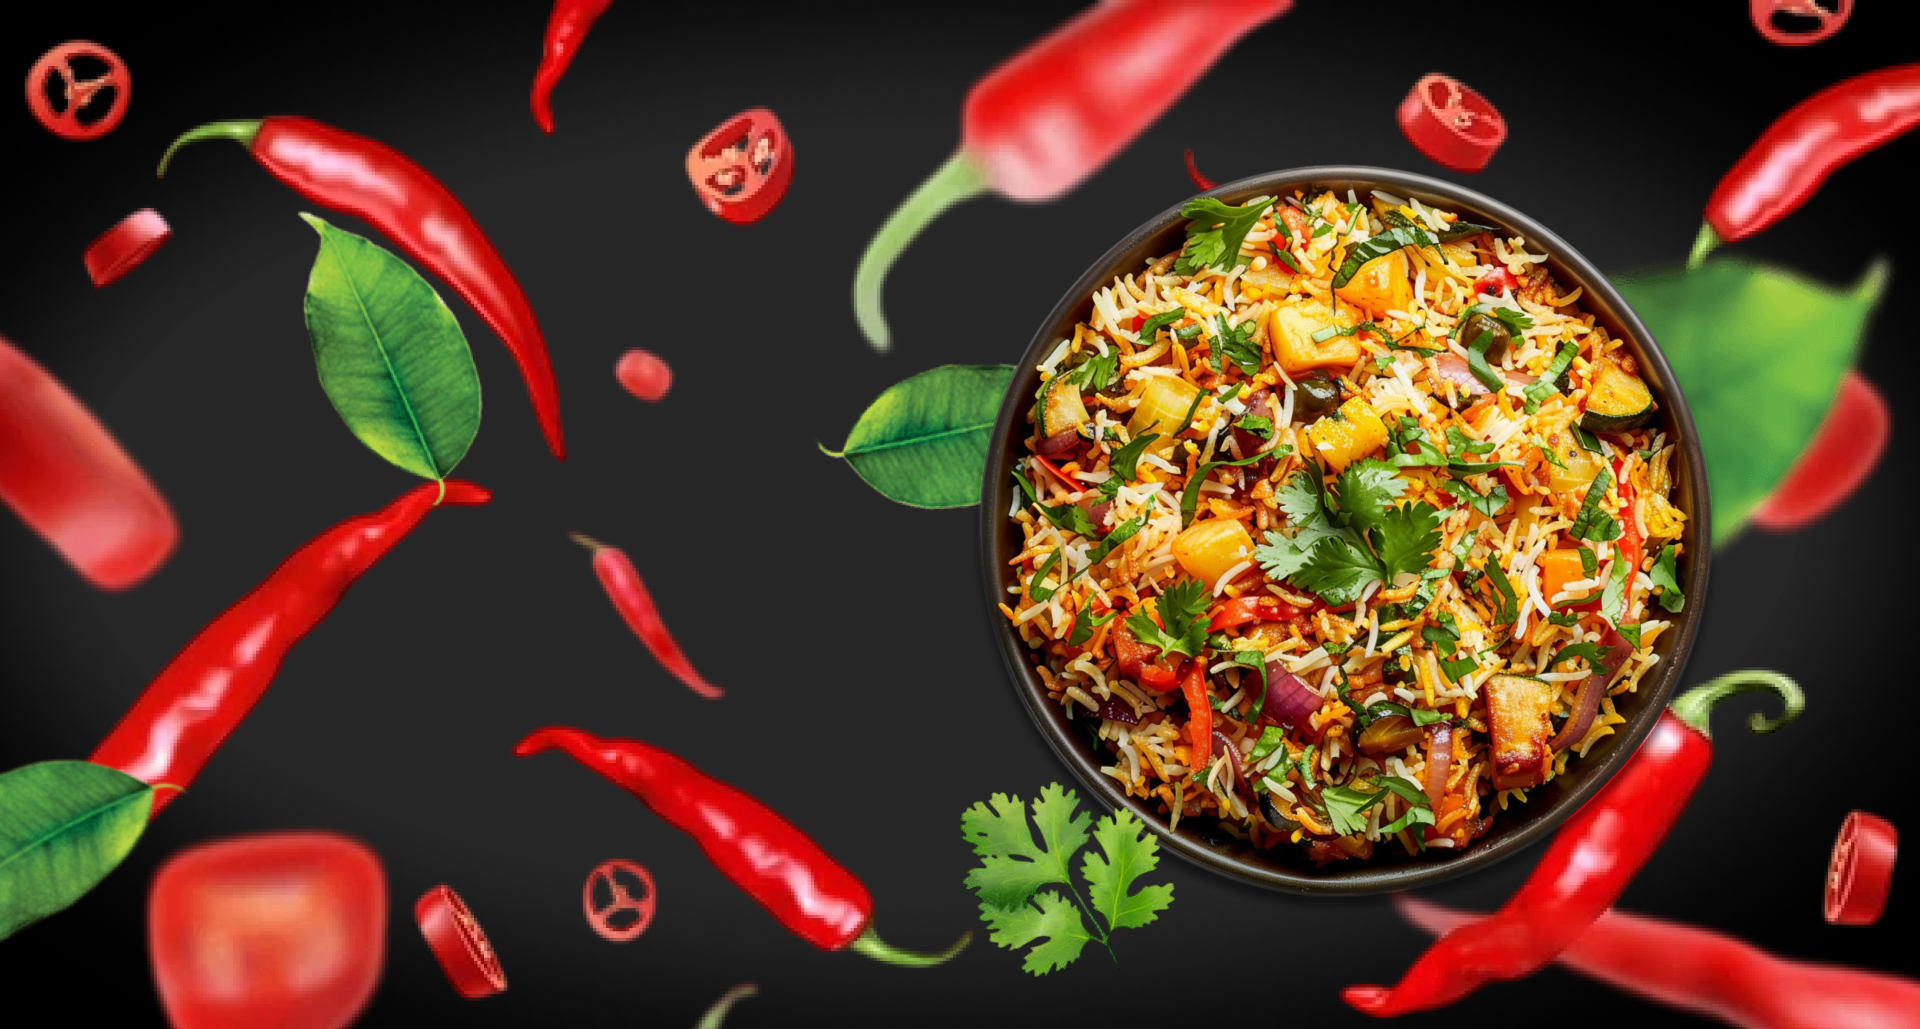
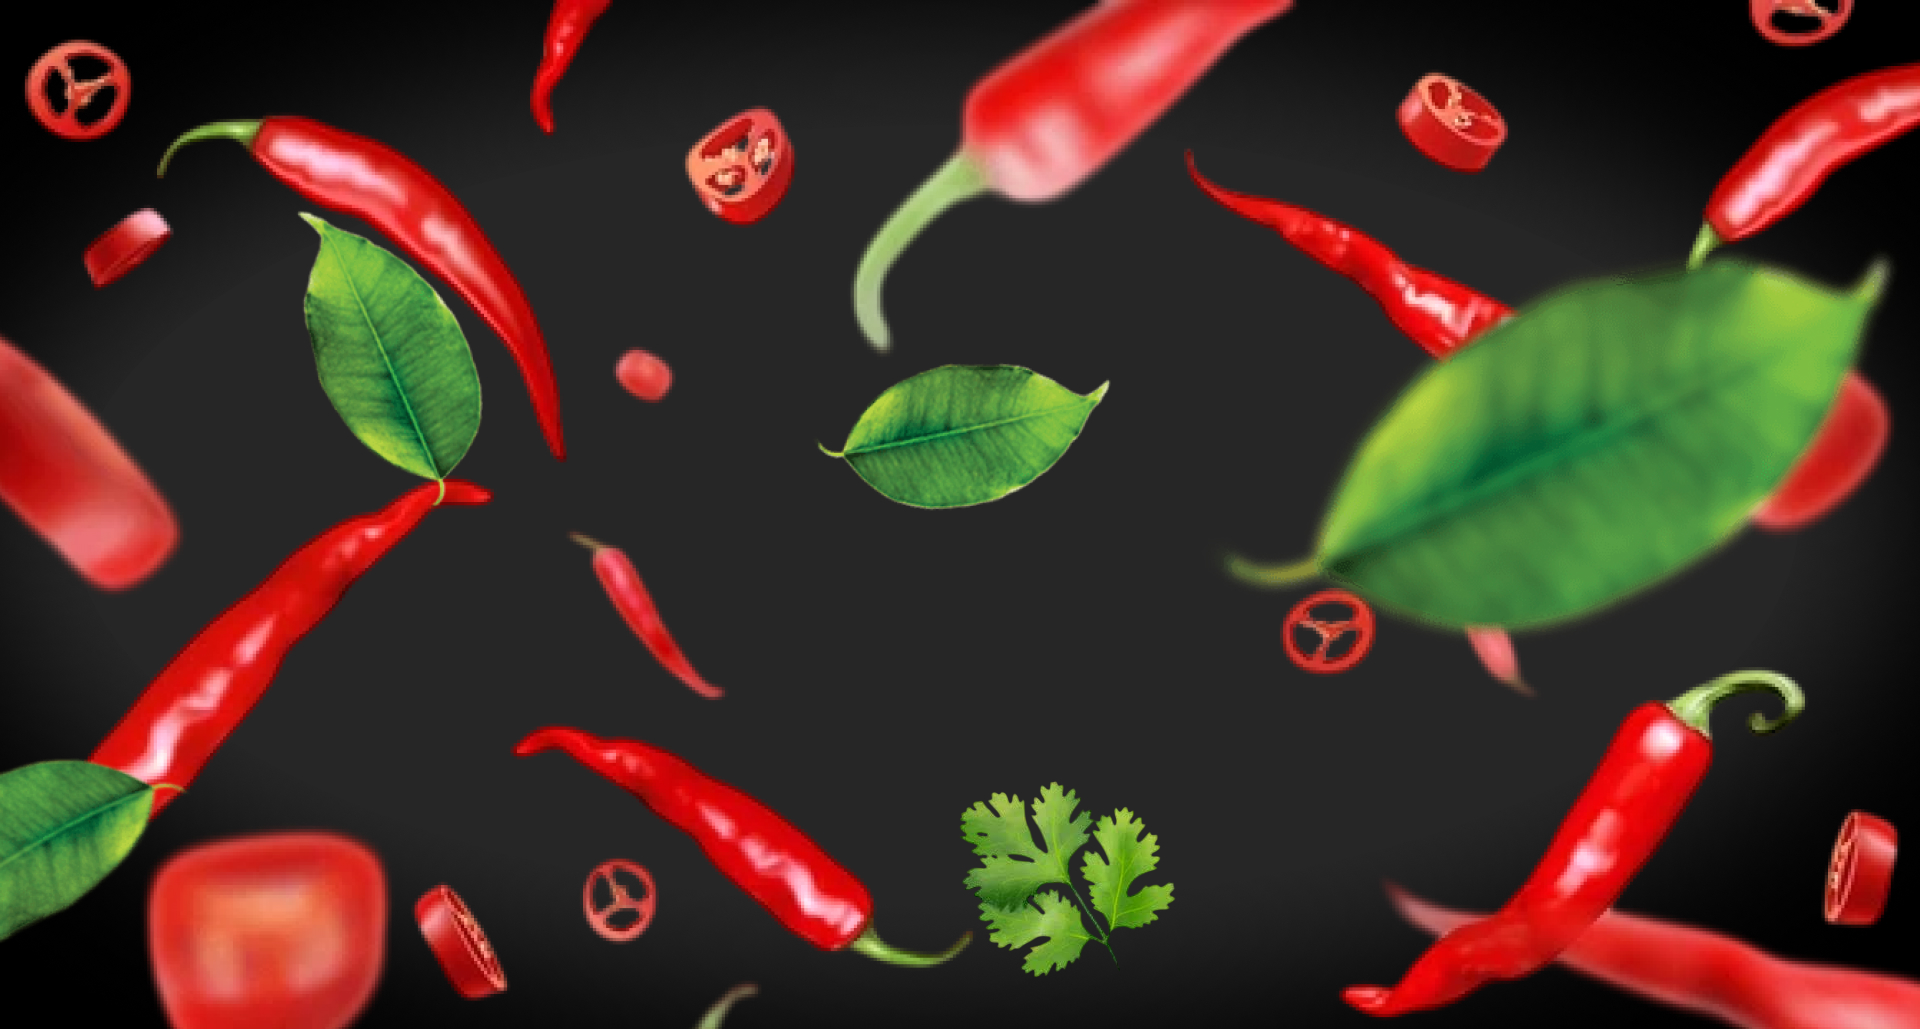
added animation in homepage

Changed region(s): [[0.5, 0.1555, 0.9062, 0.8707]]

diff --git a/src/components/Menu.jsx b/src/components/Menu.jsx
@@ -1,6 +1,8 @@
 import { useState } from "react";
 import { useCart } from "../context/CartContext";
 import menuBg from "../assets/images/menuBg.jpg";
+import card1 from "../assets/images/card1.png";
+import card2 from "../assets/images/card2.png";
 
 
 import item1 from "../assets/images/item (11).jpg";
@@ -262,6 +264,8 @@ const foods = [
 const Menu = () => {
   const { addToCart } = useCart();
   const [filter, setFilter] = useState("all");
+  const [showMenuCard, setShowMenuCard] = useState(false);
+
 
   const filteredFoods =
     filter === "all"
@@ -270,7 +274,7 @@ const Menu = () => {
 
   return (
     <section id="menu" className="relative py-24 overflow-hidden">
-      
+
       {/* ✅ BACKGROUND IMAGE (LAZY) */}
       <img
         src={menuBg}
@@ -297,29 +301,109 @@ const Menu = () => {
       </div>
 
       {/* FILTER BUTTONS */}
+      {/* FILTER BUTTONS */}
       <div className="flex justify-center gap-4 mb-14 flex-wrap px-4">
         {["all", "tea", "veg", "nonveg"].map(type => (
           <button
             key={type}
             onClick={() => setFilter(type)}
-            className={`px-6 py-2 rounded-full font-semibold transition ${
-              filter === type
-                ? "bg-orange-600 text-white"
-                : "bg-white/90 text-black hover:bg-orange-100"
-            }`}
+            className={`
+        px-7 py-2.5 rounded-full
+        font-semibold text-sm tracking-wide
+        backdrop-blur-md
+        transition-all duration-300
+        border border-transparent
+        shadow-sm
+        ${filter === type
+                ? "bg-gradient-to-r from-orange-500 to-red-500 text-white shadow-lg scale-105"
+                : "bg-white/80 text-gray-800 hover:bg-orange-100 hover:shadow-md hover:-translate-y-0.5"
+              }
+      `}
           >
-            {type === "all" && "All"}
+            {type === "all" && "✨ All"}
             {type === "tea" && "☕ Tea"}
             {type === "veg" && "🟢 Veg"}
             {type === "nonveg" && "🔴 Non-Veg"}
           </button>
         ))}
+
+        {/* 🔥 MENU CARD BUTTON */}
+        <button
+          onClick={() => setShowMenuCard(true)}
+          className="
+      px-7 py-2.5 rounded-full
+      font-semibold text-sm tracking-wide
+      bg-gray-300 text-black
+      hover:bg-white
+      transition-all duration-300
+      shadow-md hover:shadow-lg
+      hover:-translate-y-0.5
+    "
+        >
+          📖 Menu Card
+        </button>
       </div>
+
+      {showMenuCard && (
+        <div className="fixed inset-0 z-50 flex items-center justify-center bg-black/60 backdrop-blur-sm">
+
+          {/* Popup */}
+          <div className="relative bg-white rounded-2xl max-w-4xl w-[90%] p-6 animate-popup">
+
+            {/* Close Button */}
+            <button
+              onClick={() => setShowMenuCard(false)}
+              className="absolute top-4 right-4 w-10 h-10 flex items-center justify-center rounded-full bg-black text-white hover:bg-gray-800 transition"
+            >
+              ✕
+            </button>
+
+            <h3 className="text-2xl font-bold text-center mb-6">
+              Our Menu Card
+            </h3>
+
+            {/* Images */}
+            <div className="grid md:grid-cols-2 gap-6">
+              <img
+                src={card1}
+                alt="Menu Card 1"
+                className="rounded-xl shadow-md"
+              />
+              <img
+                src={card2}
+                alt="Menu Card 2"
+                className="rounded-xl shadow-md"
+              />
+            </div>
+          </div>
+
+          {/* Animation */}
+          <style>{`
+      @keyframes popup {
+        from {
+          transform: scale(0.9);
+          opacity: 0;
+        }
+        to {
+          transform: scale(1);
+          opacity: 1;
+        }
+      }
+
+      .animate-popup {
+        animation: popup 0.3s ease-out;
+      }
+    `}</style>
+        </div>
+      )}
+
+
+
 
       {/* HORIZONTAL SCROLL */}
       <div className="max-w-7xl mx-auto px-6">
-        <div className="flex gap-6 overflow-x-auto pb-4 snap-x snap-mandatory">
-          
+        <div className="flex gap-6 overflow-x-auto pb-4 snap-x snap-mandatory hide-scrollbar">
+
           {filteredFoods.map(food => (
             <div
               key={food.id}
@@ -345,19 +429,18 @@ const Menu = () => {
                 </span>
 
                 <span
-                  className={`absolute top-3 right-3 w-4 h-4 rounded-full ${
-                    food.type === "veg"
+                  className={`absolute top-3 right-3 w-4 h-4 rounded-full ${food.type === "veg"
                       ? "bg-green-500"
                       : food.type === "nonveg"
-                      ? "bg-red-500"
-                      : "bg-yellow-400"
-                  }`}
+                        ? "bg-red-500"
+                        : "bg-yellow-400"
+                    }`}
                 />
               </div>
 
               {/* Content */}
               <div className="p-5">
-                <h3 className="text-xl font-bold mb-1">
+                <h3 className="text-xl text-white font-bold mb-1">
                   {food.name}
                 </h3>
 

diff --git a/src/components/Hero.jsx b/src/components/Hero.jsx
@@ -1,5 +1,5 @@
-import heroMobile from "../assets/images/homeBg2.jpg";
 import heroDesktop from "../assets/images/homeBg1.jpg";
+import foodImg from "../assets/images/foodplate.png";
 
 const Hero = () => {
   return (
@@ -7,50 +7,143 @@ const Hero = () => {
       id="home"
       className="relative h-screen flex items-start md:items-center overflow-hidden"
     >
-      {/* ✅ RESPONSIVE IMAGE (only one loads) */}
+      {/* Background */}
       <picture className="absolute inset-0">
         <source media="(min-width: 768px)" srcSet={heroDesktop} />
         <img
-          src={heroMobile}
+          src={heroDesktop}
           alt="Tea Point Cafe"
           loading="eager"
-          fetchPriority="high"
           className="w-full h-full object-cover"
         />
       </picture>
 
-      {/* Dark overlay */}
-      <div className="absolute inset-0 bg-black/20"></div>
+      {/* Overlay */}
+      <div className="absolute inset-0 bg-black/30"></div>
 
       {/* Content */}
       <div
         className="
-          relative z-10 text-white
+          relative z-10 w-full
           px-6 md:px-20
-          pt-28 md:pt-0
-          max-w-xl
+          flex flex-col md:flex-row
+          items-center justify-between
         "
       >
-        <h1 className="text-4xl md:text-6xl font-bold mb-4">
-          Delicious Food
-        </h1>
-
-        <p className="mb-6 text-lg">
-          Experience the best taste made with love & fresh ingredients.
-        </p>
-
-        <a
-          href="#menu"
+        {/* TEXT */}
+        <div
           className="
-            inline-flex items-center gap-2
-            bg-orange-600 px-6 py-3 rounded
-            hover:bg-orange-700 transition
+            max-w-xl text-white hero-text
+            pt-24 sm:pt-28 md:pt-0
           "
         >
-          Order Now
-          <i className="fa-solid fa-arrow-right"></i>
-        </a>
+          <h1 className="text-4xl sm:text-5xl md:text-6xl font-bold mb-4">
+            Delicious Food
+          </h1>
+
+          <p className="mb-6 text-base sm:text-lg opacity-90">
+            Experience the best taste made with love & fresh ingredients.
+          </p>
+
+          <a
+            href="#menu"
+            className="
+              inline-flex items-center gap-2
+              bg-orange-600 px-6 py-3 rounded
+              hover:bg-orange-700 transition hero-btn
+            "
+          >
+            Order Now
+            <i className="fa-solid fa-arrow-right"></i>
+          </a>
+        </div>
+
+        {/* FOOD IMAGE */}
+        <div className="hero-food mt-16 sm:mt-20 md:mt-0">
+          <img
+            src={foodImg}
+            alt="Food Plate"
+            className="
+              w-[320px]
+              sm:w-[380px]
+              md:w-[520px]
+              lg:w-[600px]
+              drop-shadow-2xl
+            "
+          />
+        </div>
       </div>
+
+      {/* ANIMATIONS */}
+      <style>{`
+        /* TEXT */
+        .hero-text {
+          animation: textSlide 1s ease-out forwards;
+          opacity: 0;
+        }
+
+        .hero-btn {
+          animation: btnFade 1.3s ease-out forwards;
+          opacity: 0;
+        }
+
+        /* MOBILE FOOD */
+        .hero-food {
+          animation: foodMobile 1.3s ease-out forwards;
+          opacity: 0;
+        }
+
+        /* DESKTOP FOOD */
+        @media (min-width: 768px) {
+          .hero-food {
+            animation: foodDesktop 1.4s ease-out forwards;
+          }
+        }
+
+        @keyframes textSlide {
+          from {
+            transform: translateX(-40px);
+            opacity: 0;
+          }
+          to {
+            transform: translateX(0);
+            opacity: 1;
+          }
+        }
+
+        @keyframes btnFade {
+          from {
+            transform: translateY(20px);
+            opacity: 0;
+          }
+          to {
+            transform: translateY(0);
+            opacity: 1;
+          }
+        }
+
+        @keyframes foodMobile {
+          from {
+            transform: translateY(90px) rotate(6deg) scale(0.95);
+            opacity: 0;
+          }
+          to {
+            transform: translateY(0) rotate(0deg) scale(1);
+            opacity: 1;
+          }
+        }
+
+        @keyframes foodDesktop {
+          from {
+            transform: translateX(160px) rotate(20deg) scale(0.9);
+            opacity: 0;
+          }
+          to {
+            transform: translateX(0) rotate(0deg) scale(1);
+            opacity: 1;
+          }
+        }
+      `}</style>
     </section>
   );
 };

diff --git a/src/index.css b/src/index.css
@@ -58,3 +58,13 @@
   animation: loaderZoomFade 1.6s ease-in-out infinite;
   filter: drop-shadow(0 0 25px rgba(255, 165, 0, 0.8));
 }
+
+/* Hide scrollbar but keep scroll */
+.hide-scrollbar {
+  scrollbar-width: none;      /* Firefox */
+  -ms-overflow-style: none;   /* IE 10+ */
+}
+
+.hide-scrollbar::-webkit-scrollbar {
+  display: none;              /* Chrome, Safari */
+}
